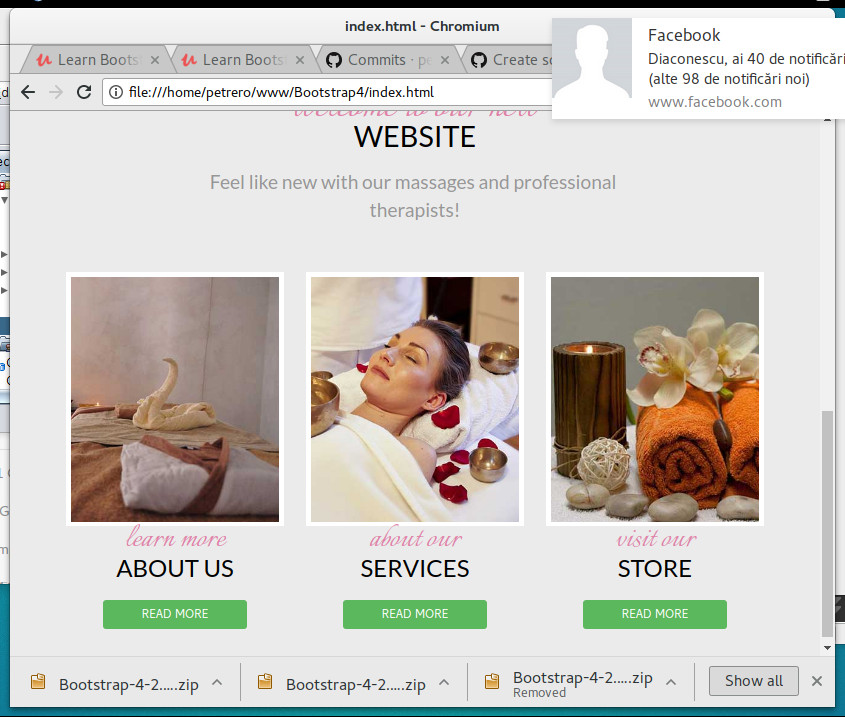
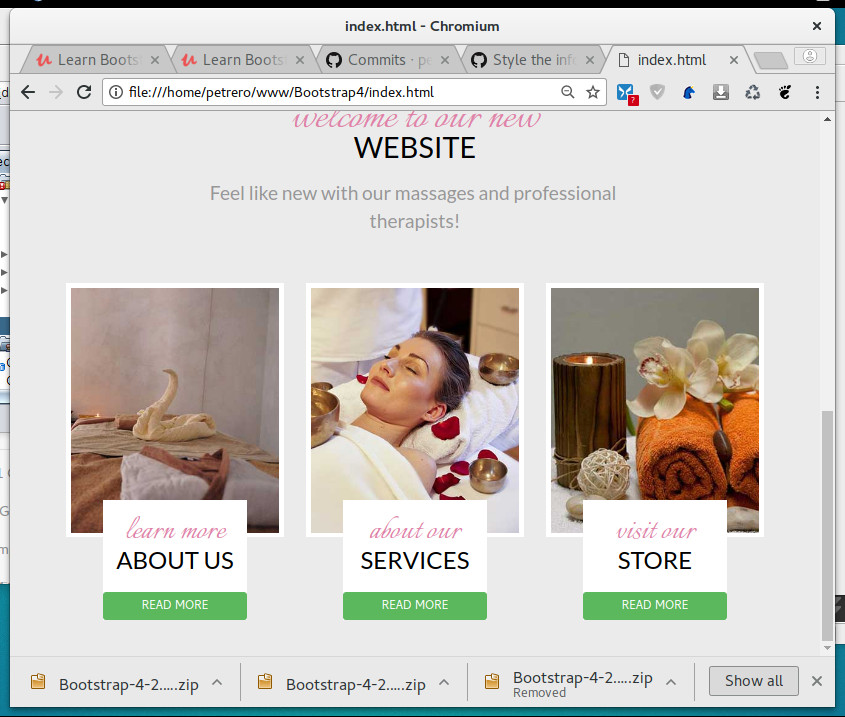
Style the info part of our image info links.

diff --git a/index.html b/index.html
@@ -116,7 +116,7 @@
           <div class="image-links">
             <img src="img/service_01.jpg" alt="" class="img-fluid" />
             <div class="row no-gutters">
-              <div class="col-8 offset-2 image-info">
+              <div class="col-8 offset-2 image-info pt-4">
                 <h3 class="text-center text-uppercase"><span class="text-lowercase">learn more</span>About Us</h3>
                 <a href="" class="btn btn-success text-uppercase btn-block mt-4">read more</a>
               </div>
@@ -127,7 +127,7 @@
           <div class="image-links">
             <img src="img/service_02.jpg" alt="" class="img-fluid" />
             <div class="row no-gutters">
-              <div class="col-8 offset-2 image-info">
+              <div class="col-8 offset-2 image-info pt-4">
                 <h3 class="text-center text-uppercase"><span class="text-lowercase">about our</span>services</h3>
                 <a href="" class="btn btn-success text-uppercase btn-block mt-4">read more</a>
               </div>
@@ -138,7 +138,7 @@
           <div class="image-links">
             <img src="img/service_03.jpg" alt="" class="img-fluid" />
             <div class="row no-gutters">
-              <div class="col-8 offset-2 image-info">
+              <div class="col-8 offset-2 image-info pt-4">
                 <h3 class="text-center text-uppercase"><span class="text-lowercase">visit our</span>store</h3>
                 <a href="" class="btn btn-success text-uppercase btn-block mt-4">read more</a>
               </div>

diff --git a/css/styles.css b/css/styles.css
@@ -76,4 +76,9 @@ nav.main-nav .nav-link {
 /** Image links */
  .image-links img {
    border: 6px solid white;
- } 
+} 
+
+.image-info {
+  background-color: white;
+  margin-top: -50px;
+} 
